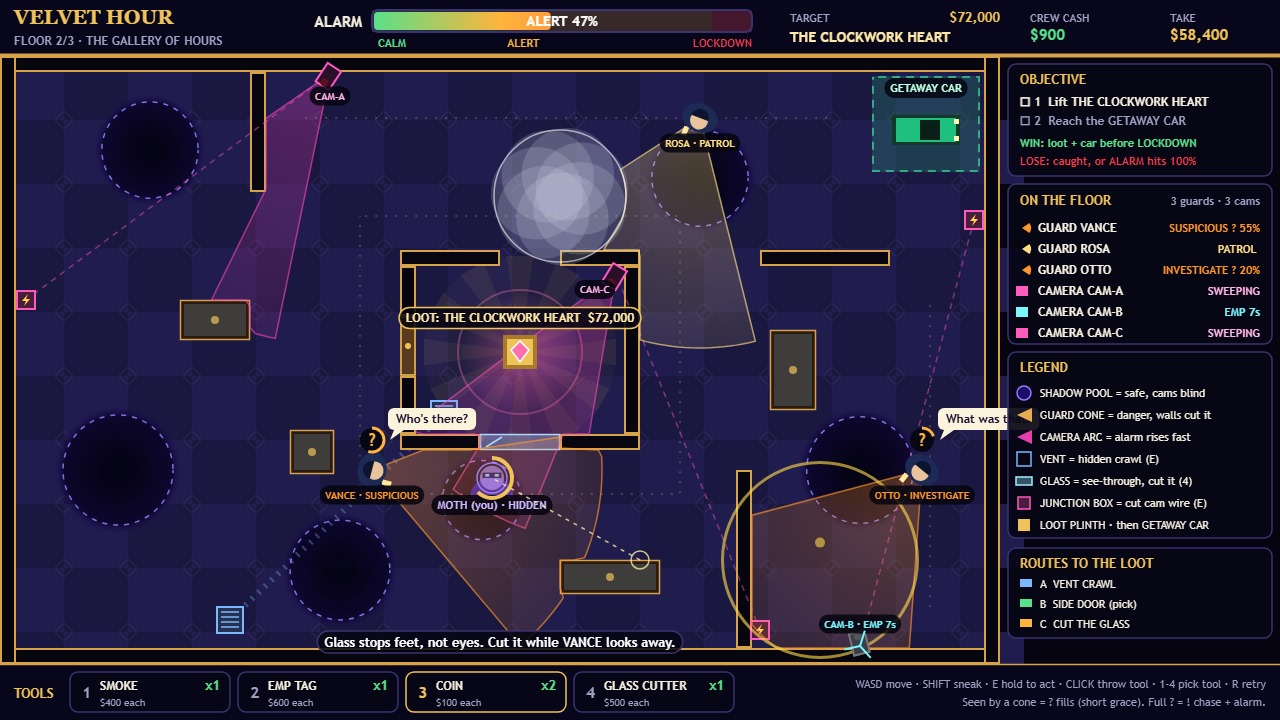
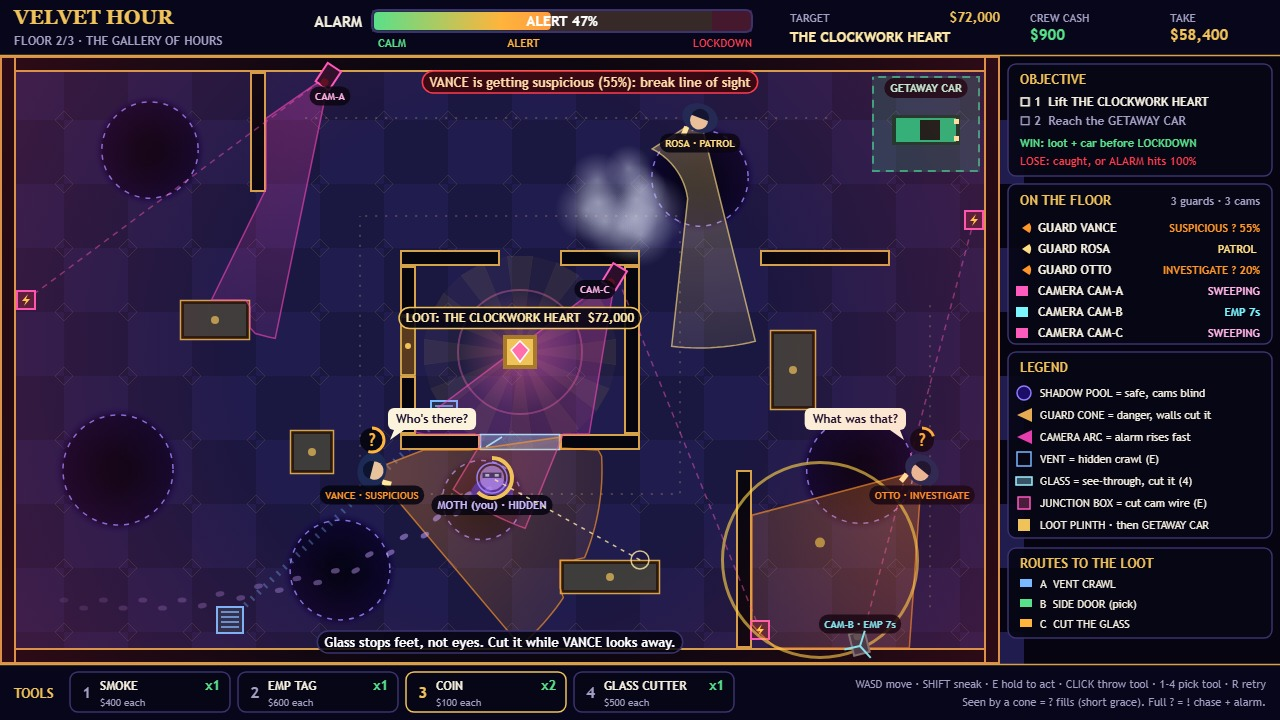
v2: footprint trail, tension vignette with who-is-onto-you warning, billowing smoke, guards never stuck on walls

Changed region(s): [[0.0, 0.0611, 1.0, 0.9167], [0.375, 0.1833, 0.5625, 0.4889], [0.2188, 0.7944, 0.25, 0.825]]

diff --git a/game/src/actors/guards.js b/game/src/actors/guards.js
@@ -63,12 +63,23 @@ function walkTo(state, guard, x, y, speed, dt) {
   const dx = x - guard.x;
   const dy = y - guard.y;
   const d = Math.hypot(dx, dy);
-  if (d < 4) return true;
+  if (d < 4) {
+    guard.stuckT = 0;
+    return true;
+  }
   const step = Math.min(d, speed * dt);
+  const ox = guard.x;
+  const oy = guard.y;
   guard.x += (dx / d) * step;
   guard.y += (dy / d) * step;
   pushOutOfBoxes(guard, GUARD.radius, state.solids);
   guard.facing = turnToward(guard.facing, Math.atan2(dy, dx), GUARD.turnRate * dt);
+  // pressed against a wall with no way round: count it as there rather than push forever
+  guard.stuckT = Math.hypot(guard.x - ox, guard.y - oy) < step * 0.25 ? (guard.stuckT ?? 0) + dt : 0;
+  if (guard.stuckT > 1.2) {
+    guard.stuckT = 0;
+    return true;
+  }
   return false;
 }
 
@@ -78,6 +89,7 @@ export function hearNoise(state, guard, noise) {
   if (noise.kind === 'step') guard.suspicion = Math.min(0.9, guard.suspicion + 0.18);
   guard.target = { x: noise.x, y: noise.y };
   guard.searchT = 2.4;
+  guard.walkT = 0;
   setMode(guard, INVESTIGATE);
 }
 
@@ -96,6 +108,7 @@ export function radioGuards(state, x, y) {
   if (best) {
     best.target = { x, y };
     best.searchT = 2.4;
+    best.walkT = 0;
     setMode(best, INVESTIGATE);
   }
 }
@@ -141,6 +154,7 @@ export function stepGuard(state, guard, dt) {
       if (guard.lostT > GUARD.loseSight) {
         guard.suspicion = 0.6;
         guard.searchT = 3;
+        guard.walkT = 0;
         setMode(guard, SEARCH);
       }
       break;
@@ -153,7 +167,9 @@ export function stepGuard(state, guard, dt) {
     }
     case INVESTIGATE:
     case SEARCH: {
-      const arrived = !guard.target || walkTo(state, guard, guard.target.x, guard.target.y, GUARD.investigateSpeed * hurry, dt);
+      guard.walkT = (guard.walkT ?? 0) + dt;
+      // a guard gives up on a spot he cannot reach within a few seconds and looks around from there
+      const arrived = !guard.target || guard.walkT > 7 || walkTo(state, guard, guard.target.x, guard.target.y, GUARD.investigateSpeed * hurry, dt);
       if (arrived) {
         guard.searchT -= dt;
         guard.facing += dt * 2.1;

diff --git a/game/src/render/actors.js b/game/src/render/actors.js
@@ -1,12 +1,29 @@
 // The cast, drawn from above: Moth in a violet moth-wing cape, guards in navy caps with a
 // suspicion pip ("?" filling, then "!") and speech bubbles, and the wall cameras.
-import { COLOR } from '../config.js';
+import { COLOR, PLAY } from '../config.js';
 import { ALERT } from '../actors/guards.js';
 import { pill, roundRect, text, FONT } from './draw-kit.js';
 import { guardConeColor } from './cones.js';
 
+/** Soft violet footprints, fading with age: the route Moth has taken so far. */
+function drawFootprints(ctx, t) {
+  const n = t.trail.length;
+  t.trail.forEach((p, i) => {
+    const side = p.left ? -1 : 1;
+    ctx.save();
+    ctx.translate(p.x + Math.cos(p.a + Math.PI / 2) * 4 * side, p.y + Math.sin(p.a + Math.PI / 2) * 4 * side);
+    ctx.rotate(p.a);
+    ctx.fillStyle = `rgba(201,162,255,${0.12 + 0.5 * (i / n)})`;
+    ctx.beginPath();
+    ctx.ellipse(0, 0, 4.5, 2.6, 0, 0, Math.PI * 2);
+    ctx.fill();
+    ctx.restore();
+  });
+}
+
 export function drawThief(ctx, state) {
   const t = state.thief;
+  drawFootprints(ctx, t);
   if (t.hidden) {
     pill(ctx, 'IN THE VENT...', t.x, t.y - 24, { size: 11, color: '#bcd8ff' });
     return;
@@ -78,15 +95,17 @@ function bubble(ctx, g) {
   if (!g.bubble || g.bubbleT <= 0) return;
   ctx.font = `bold 12px ${FONT}`;
   const w = ctx.measureText(g.bubble).width + 16;
-  const x = g.x + 16;
+  const flip = g.x + 16 + w > PLAY.x + PLAY.w - 6; // keep the bubble on the floor plan
+  const x = flip ? g.x - 16 - w : g.x + 16;
   const y = g.y - 62;
   roundRect(ctx, x, y, w, 22, 6);
   ctx.fillStyle = '#fbf3dc';
   ctx.fill();
   ctx.beginPath();
-  ctx.moveTo(x + 6, y + 22);
-  ctx.lineTo(x + 2, y + 32);
-  ctx.lineTo(x + 16, y + 22);
+  const tx = flip ? x + w - 6 : x + 6;
+  ctx.moveTo(tx, y + 22);
+  ctx.lineTo(flip ? tx + 4 : tx - 4, y + 32);
+  ctx.lineTo(flip ? tx - 10 : tx + 10, y + 22);
   ctx.fill();
   text(ctx, g.bubble, x + 8, y + 15, { size: 12, color: '#1a1030' });
 }

diff --git a/game/src/shots.js b/game/src/shots.js
@@ -7,6 +7,7 @@ import { ALERT, INVESTIGATE, PATROL, SUSPICIOUS } from './actors/guards.js';
 import { emitNoise } from './systems/noise.js';
 import { useTool } from './systems/tools.js';
 import { inShadow } from './systems/vision.js';
+import { leaveFootprint } from './actors/thief.js';
 
 const IDLE = { dx: 0, dy: 0 };
 
@@ -18,6 +19,19 @@ function place(guard, x, y, facing, mode, suspicion = 0, bubble = null) {
   Object.assign(guard, { x, y, facing, mode, suspicion, bubble, bubbleT: bubble ? 2 : 0, target: null });
 }
 
+/** Lay the footprints Moth would leave walking these points, with the thief's own trail rule. */
+function walkTrail(thief, points) {
+  for (let i = 1; i < points.length; i += 1) {
+    const [ax, ay] = points[i - 1];
+    const [bx, by] = points[i];
+    const n = Math.ceil(Math.hypot(bx - ax, by - ay) / 4);
+    for (let k = 0; k <= n; k += 1) {
+      Object.assign(thief, { x: ax + ((bx - ax) * k) / n, y: ay + ((by - ay) * k) / n, facing: Math.atan2(by - ay, bx - ax) });
+      leaveFootprint(thief);
+    }
+  }
+}
+
 function byName(state, name) {
   return state.guards.find((g) => g.name === name);
 }
@@ -26,10 +40,11 @@ function byName(state, name) {
 function heistScene(r) {
   const s = startFloor(1, { smoke: 2, emp: 1, coin: 2, cutter: 1 });
   run(s, 3.2);
+  walkTrail(s.thief, [[64, 604], [190, 604], [340, 574], [430, 528], [492, 482]]);
   Object.assign(s.thief, { x: 492, y: 478, facing: -Math.PI / 2, sneaking: true, inShadow: true });
   s.thief.job = { kind: 'cut', dur: 1.6, t: 1.0, target: s.glass[0], label: '' };
   useTool(s, 'emp', 860, 646);
-  useTool(s, 'smoke', 560, 196);
+  useTool(s, 'smoke', 628, 196);
   s.cameras[1].offT = 6.2;
   s.time = 9.4;
   for (const c of s.cameras) c.angle = c.base + c.sweep * Math.sin((s.time * Math.PI * 2) / c.period);

diff --git a/game/src/render/hud.js b/game/src/render/hud.js
@@ -231,7 +231,29 @@ function prompts(ctx, state, run) {
   }
 }
 
+/** Danger creeping in from the edges while a "?" fills or a camera records, with who is onto you. */
+function tension(ctx, state) {
+  let worst = null;
+  for (const g of state.guards) if (g.suspicion > 0.05 && (!worst || g.suspicion > worst.suspicion)) worst = g;
+  const cam = state.cameras.find((c) => c.sees);
+  const k = Math.max(worst ? Math.min(1, worst.suspicion) : 0, cam ? 0.8 : 0, state.alarm.value >= ALARM.alertAt ? 0.35 : 0);
+  if (k <= 0) return;
+  const cx = PLAY.x + PLAY.w / 2;
+  const cy = PLAY.y + PLAY.h / 2;
+  const g = ctx.createRadialGradient(cx, cy, PLAY.h * 0.42, cx, cy, PLAY.w * 0.62);
+  g.addColorStop(0, 'rgba(255,40,60,0)');
+  g.addColorStop(1, `rgba(255,40,60,${0.32 * k})`);
+  ctx.fillStyle = g;
+  ctx.fillRect(PLAY.x, PLAY.y, PLAY.w, PLAY.h);
+  let warn = '';
+  if (cam) warn = `${cam.id} IS RECORDING YOU: get out of the pink arc!`;
+  else if (worst && worst.mode !== ALERT) warn = `${worst.name} is getting suspicious (${Math.round(worst.suspicion * 100)}%): break line of sight`;
+  else if (worst) warn = `${worst.name} IS CHASING YOU: smoke, shadows or run`;
+  if (warn) pill(ctx, warn, cx + 90, PLAY.y + (state.thief.hasLoot ? 62 : 26), { size: 13, color: '#ffd9a8', bg: 'rgba(60,8,14,0.9)', edge: COLOR.lockdown });
+}
+
 export function drawHud(ctx, state, run) {
+  tension(ctx, state);
   topBar(ctx, state, run);
   sidePanel(ctx, state);
   toolBar(ctx, state, run);

diff --git a/game/src/render/cones.js b/game/src/render/cones.js
@@ -51,20 +51,21 @@ export function drawSmokeAndNoise(ctx, state) {
     ctx.stroke();
   }
   for (const c of state.clouds) {
-    for (let i = 0; i < 7; i += 1) {
-      const a = i * 0.9 + c.t * 0.4;
-      const ox = Math.cos(a) * c.r * 0.35;
-      const oy = Math.sin(a) * c.r * 0.35;
-      ctx.fillStyle = 'rgba(205,210,230,0.2)';
+    // a billow of soft puffs that drift as the cloud ages
+    for (let i = 0; i < 11; i += 1) {
+      const a = i * 2.39 + c.t * 0.5;
+      const d = c.r * (0.25 + 0.4 * ((i * 37) % 10) / 10);
+      const px = c.x + Math.cos(a) * d;
+      const py = c.y + Math.sin(a) * d;
+      const pr = c.r * (0.35 + 0.25 * ((i * 53) % 7) / 7);
+      const g = ctx.createRadialGradient(px, py, 0, px, py, pr);
+      g.addColorStop(0, 'rgba(225,228,245,0.42)');
+      g.addColorStop(1, 'rgba(180,185,215,0)');
+      ctx.fillStyle = g;
       ctx.beginPath();
-      ctx.arc(c.x + ox, c.y + oy, c.r * 0.7, 0, Math.PI * 2);
+      ctx.arc(px, py, pr, 0, Math.PI * 2);
       ctx.fill();
     }
-    ctx.strokeStyle = 'rgba(255,255,255,0.3)';
-    ctx.lineWidth = 1.5;
-    ctx.beginPath();
-    ctx.arc(c.x, c.y, c.r, 0, Math.PI * 2);
-    ctx.stroke();
   }
   for (const e of state.effects) {
     const k = e.t / e.life;

diff --git a/game/src/actors/thief.js b/game/src/actors/thief.js
@@ -17,6 +17,7 @@ export function makeThief(floor) {
     hasLoot: false,
     job: null, // { kind, t, dur, target, label }
     stepT: 0,
+    trail: [], // footprints, oldest first
   };
 }
 
@@ -72,6 +73,14 @@ function finishJob(state, job) {
   state.rebuildWalls();
 }
 
+/** Drop a footprint every stride, keeping the last few dozen: the route you took, at a glance. */
+export function leaveFootprint(t) {
+  const last = t.trail[t.trail.length - 1];
+  if (last && Math.hypot(t.x - last.x, t.y - last.y) < 18) return;
+  t.trail.push({ x: t.x, y: t.y, a: t.facing, left: !(last && last.left) });
+  if (t.trail.length > 48) t.trail.shift();
+}
+
 /** One step of the thief: the job in hand, else movement, footsteps and the shadow test. */
 export function stepThief(state, input, dt) {
   const t = state.thief;
@@ -111,6 +120,7 @@ export function stepThief(state, input, dt) {
     t.y += dy * speed * dt;
     pushOutOfBoxes(t, THIEF.radius, state.solids);
     t.facing = Math.atan2(dy, dx);
+    leaveFootprint(t);
     t.stepT += dt;
     if (!t.sneaking && t.stepT > 0.32) {
       t.stepT = 0;
